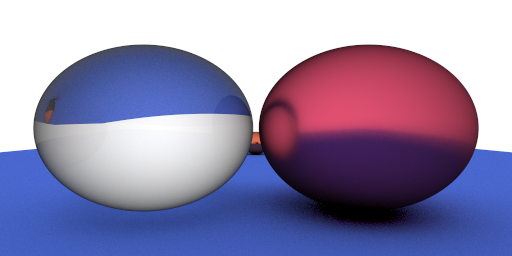
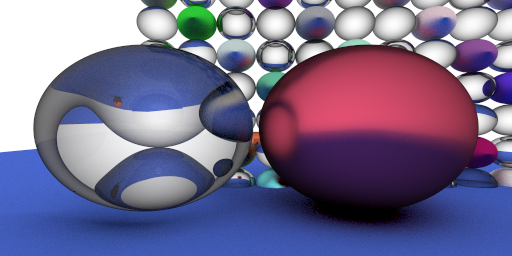
Add next step plans

diff --git a/RayTracing/src/Application.cpp b/RayTracing/src/Application.cpp
@@ -6,7 +6,7 @@
 #include "Random.h"
 
 int main() {
-	int nrays = 1;
+	int nrays = 32;
 	YAML::Node config = YAML::LoadFile("102ballsconfig.yaml");
 	Image3 img(config["img"].as<Image3>());
 	World world(config["world"].as<World>());
@@ -36,7 +36,7 @@ int main() {
 	ofs << config;
 	return 0;*/
 	Renderer renderer;
-	renderer.Render(world, img, 800);
+	renderer.Render(world, img, nrays);
 	img.Write("testpic2.png");
 	return 0;
 }

diff --git a/Todo.md b/Todo.md
@@ -1,1 +1,5 @@
-Complete the Cuboid hit detection
+Multithread
+
+material file reading
+
+model importing
